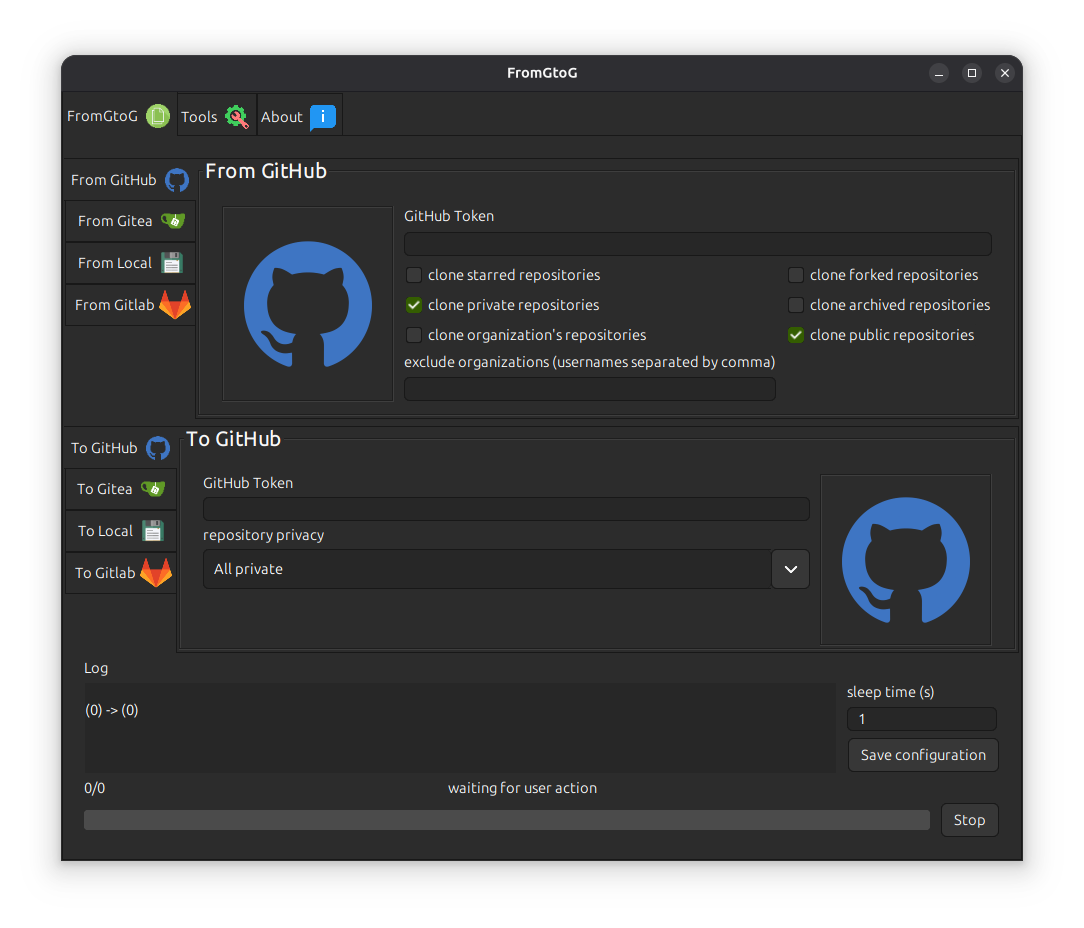
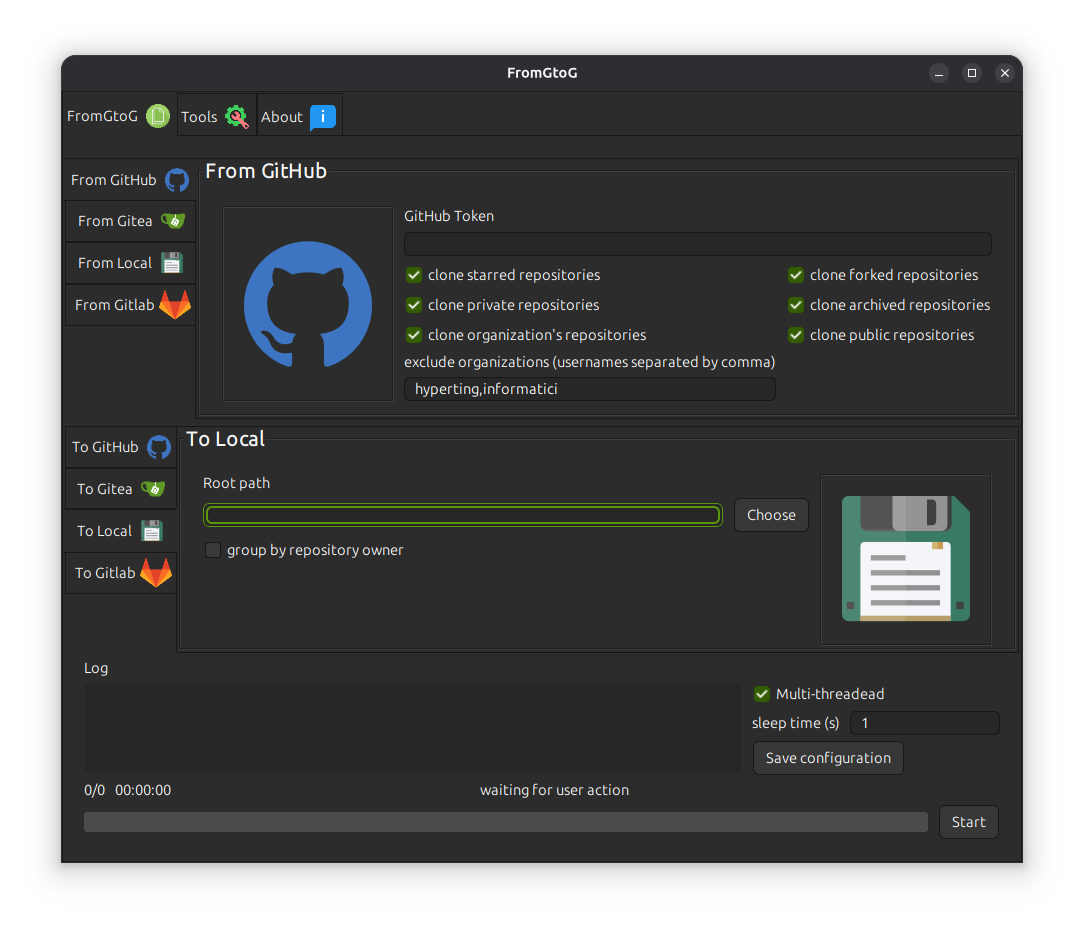
doc: update

diff --git a/README.md b/README.md
@@ -10,6 +10,7 @@
     - [Windows](#download-windows)
     - [Linux](#download-linux)
 - [Screenshot](#screenshot)
+- [News](#news)
 - [For developers](#for-developers)
 - [Support me](#support-me)
 
@@ -32,8 +33,9 @@ Currently, the application is able to clone:
 - from Gitlab to GitHub\Gitea\Local\Gitlab
 - from Local to GitHub\Gitea\Local (copies only git repositories, other directories are skipped)\Gitlab
 
-Further features (in the tools section)
+Further features
 
+- multi-threading
 - logging (log file)
 - delete all repositories from:
     - from GitHub
@@ -68,7 +70,15 @@ JDK 21, Intellij UI Designer (plugin for Intellij), Slf4J, Lombok, Apache Common
 <h2 id="screenshot">Screenshot</h2>
 
 ![screenshot](images/screenshot.png)
+
 <img src="https://andre-i.eu/api/v1/ipResource/github.png?a=6.0" onerror="this.style.display='none'" />
+
+
+<h2 id="news">News</h2>
+
+- fixed the windows/linux and macOS packaging - now it is possible to clone from GitHub. The absence of the
+  `jdk.crypto.ec` and `java.security.sasl` imports in the `--add-modules` option, prevented the SSL connections, so the
+  clone process failed, in particular for GitHub (which uses SSL).
 
 <h2 id="for-developers">For developers</h2>
 
@@ -97,9 +107,8 @@ jpackage -t exe --name "FromGtoG" --vendor "Andrei Dodu" --app-version "7.0.0" -
 ## Generate a standalone for Linux
 
 ```bash
-jpackage --type deb --name "FromGtoG" --vendor "Andrei Dodu" --app-version "7.0.0" --input "target" --main-jar "fromgtog.jar" --icon "resources/icon.ico" --main-class "com.andreidodu.fromgtog.Main" --dest "executable" --add-modules java.base,java.desktop,java.net.http,java.naming,java.sql,java.management,java.security.jgss,java.xml,java.logging,jdk.crypto.ec,java.security.sasl, --linux-shortcut --verbose
+jpackage --type deb --name "FromGtoG" --vendor "Andrei Dodu" --app-version "7.0.0" --input "target" --main-jar "fromgtog.jar" --icon "resources/icon.ico" --main-class "com.andreidodu.fromgtog.Main" --dest "executable" --add-modules java.base,java.desktop,java.net.http,java.naming,java.sql,java.management,java.security.jgss,java.xml,java.logging,jdk.crypto.ec,java.security.sasl --linux-shortcut --verbose
 ```
-
 
 <h2 id="support-me">Support Me</h2>
 
